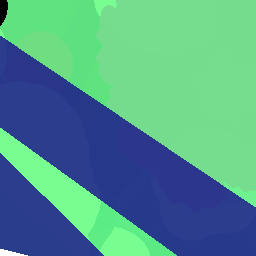
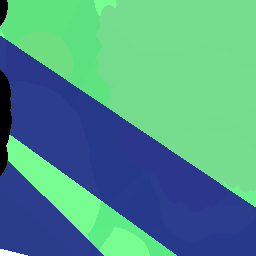
Fixed more stuff with the line fragment shader

Changed region(s): [[0.0, 0.2812, 0.0625, 0.6875]]

diff --git a/Code/drawing_functions.py b/Code/drawing_functions.py
@@ -458,8 +458,6 @@ class RenderObjects():
             if (y1 < y2):  # ↓
                 y2 += pixel_size
                 ltwh = [x1 - (((thickness - 1) // 2) * pixel_size), min(y1, y2) - (((thickness - 1) // 2) * pixel_size), (thickness * pixel_size), abs(y2 - y1) + ((thickness - 1) * pixel_size)]
-            # self.basic_rect_ltwh_image_with_color(Screen, gl_context, 'black_pixel', ltwh, rgba)
-            # return
         else:
             # octant 1 or 2
             if (y1 > y2) and (x1 < x2):
@@ -2137,30 +2135,41 @@ class DrawLine():
                     f_color.rgba = line_color;
                 }
 
+                inverse_slope = (delta_x - 1) / (delta_y - 1);
                 if (thickness == 1.0) {
-                    inverse_slope = (delta_x - 1) / (delta_y - 1);
                     float calculated_x = (inverse_slope * (editor_pixel_y - 0.5)) + 0.5;
-                    if (mod(calculated_x, 1.0) > 0.999) {
-                        calculated_x = ceil(calculated_x);
-                    }
-                    if (mod(calculated_x, 1.0) < 0.001) {
-                        calculated_x = floor(calculated_x);
-                    }
+                    calculated_x = round_close(calculated_x);
                     if ((calculated_x < editor_pixel_x + 0.5) && (calculated_x >= editor_pixel_x - 0.5)) {
                         f_color.rgba = line_color;
                     }
                 }
 
+                // float left_top_edge_offset = (mod(thickness, 2.0) == 0.0) ? -((thickness / 2) - 1) : -floor(thickness / 2);
+                // float bottom_line_x = x1 + left_top_edge_offset + outer_line_x1;
+                // float bottom_line_y = y1 + left_top_edge_offset + outer_line_y1;
+                // float bottom_line_intercept = (inverse_slope * -bottom_line_y) + bottom_line_x;
+                // bool above_bottom_line = editor_pixel_x + 0.5 > (inverse_slope * editor_pixel_y) + bottom_line_intercept;
+
+                // float top_line_x = x1 + left_top_edge_offset + outer_line_x2;
+                // float top_line_y = y1 + left_top_edge_offset + outer_line_y2;
+                // float top_line_intercept = (inverse_slope * -top_line_y) + top_line_x;
+                // bool below_top_line = editor_pixel_x - 0.5 <= (inverse_slope * editor_pixel_y) + top_line_intercept;
+
                 float left_top_edge_offset = (mod(thickness, 2.0) == 0.0) ? -((thickness / 2) - 1) : -floor(thickness / 2);
                 float bottom_line_x = x1 + left_top_edge_offset + outer_line_x1;
                 float bottom_line_y = y1 + left_top_edge_offset + outer_line_y1;
-                float bottom_line_intercept = (inverse_slope * -bottom_line_y) + bottom_line_x;
-                bool above_bottom_line = editor_pixel_x + 0.5 > (inverse_slope * editor_pixel_y) + bottom_line_intercept;
+                float calculated_bottom_line = (inverse_slope * (editor_pixel_y - bottom_line_y - 0.5)) + bottom_line_x + 0.5;
+                calculated_bottom_line = round_close(calculated_bottom_line);
+                bool above_bottom_line = calculated_bottom_line < editor_pixel_x + 0.5;
 
                 float top_line_x = x1 + left_top_edge_offset + outer_line_x2;
                 float top_line_y = y1 + left_top_edge_offset + outer_line_y2;
-                float top_line_intercept = (inverse_slope * -top_line_y) + top_line_x;
-                bool below_top_line = editor_pixel_x - 0.5 <= (inverse_slope * editor_pixel_y) + top_line_intercept;
+                float calculated_top_line = (inverse_slope * (editor_pixel_y - top_line_y - 0.5)) + top_line_x + 0.5;
+                calculated_top_line = round_close(calculated_top_line);
+                bool below_top_line = calculated_top_line >= editor_pixel_x - 0.5;
+
+
+
 
                 float perpendicular_slope = (top_line_x - bottom_line_x) / (top_line_y - bottom_line_y);
                 float perpendicular_intercept_stamp1 = (perpendicular_slope * -bottom_line_y + 1) + bottom_line_x;

diff --git a/Code/Editor/editor_utilities.py b/Code/Editor/editor_utilities.py
@@ -1773,6 +1773,34 @@ class LineTool(EditorTool):
         if int(brush_thickness) == self._brush_thickness:
             return False
         return True
+    
+    def get_outer_pixels(self, drawing_angle, x1, y1, x2, y2):
+        if ((x1 == x2) or (y1 == y2)):
+            return (None, None), (None, None)
+        above_line_xy = [x1, y1, 0]
+        below_line_xy = [x1, y1, 0]
+        center_x, center_y = self.brush_thickness / 2, self.brush_thickness / 2
+        slope = ((y2 - y1) / (x2 - x1))
+        intercept = (slope * -center_x) + center_y
+        perpendicular_slope = -(1 / slope)
+        for edge_pixel in self.circle_for_line_drawing:
+            [column_index, row_index, radial_angle, [lower_angle, upper_angle]] = edge_pixel
+            if (not angle_in_range(lower_angle, drawing_angle, upper_angle)) or (self.brush_thickness < 4) or (self.brush_style == LineTool.SQUARE_BRUSH):
+                pixel_x = column_index + 0.5
+                pixel_y = row_index + 0.5
+                perpendicular_intercept = (perpendicular_slope * -pixel_x) + pixel_y
+                intersection_x = (perpendicular_intercept - intercept) / (slope - perpendicular_slope)
+                intersection_y = (slope * intersection_x) + intercept
+                distance_from_line = math.sqrt(((intersection_x - pixel_x) ** 2) + ((intersection_y - pixel_y) ** 2))
+                # above line
+                if pixel_y > (slope * pixel_x) + intercept:
+                    if distance_from_line > above_line_xy[2]:
+                        above_line_xy = [column_index, row_index, distance_from_line]
+                # below line
+                else:
+                    if distance_from_line > below_line_xy[2]:
+                        below_line_xy = [column_index, row_index, distance_from_line]
+        return above_line_xy[0:2], below_line_xy[0:2]
 
 
 class CurvyLineTool(EditorTool):
@@ -2379,6 +2407,16 @@ class EditorMap():
                         draw_angle = math.degrees(math.atan2(self.current_tool.start_left_top_xy[1] - topest_brush_pixel, leftest_brush_pixel - self.current_tool.start_left_top_xy[0])) % 360
                         map_edit = self.map_edits[-1].change_dict
                         max_tile_x, max_tile_y = self.tile_array_shape[0] - 1, self.tile_array_shape[1] - 1
+                        # # get points used to draw lines in the fragment shader to make the drawn points match
+                        # x2 = int(pixel_x + (((self.current_tool.brush_thickness - 1) // 2) * self.pixel_scale))
+                        # y2 = int(pixel_y + (((self.current_tool.brush_thickness - 1) // 2) * self.pixel_scale))
+                        # x1 = int(x2 + ((self.current_tool.start_xy[0] - pos_x) * self.pixel_scale))
+                        # y1 = int(y2 + ((self.current_tool.start_xy[1] - pos_y) * self.pixel_scale))
+                        # (stamp1_above_line_x, stamp1_above_line_y), (stamp1_below_line_x, stamp1_below_line_y) = self.current_tool.get_outer_pixels(draw_angle, x1, y1, x2, y2)
+                        # difference_x = leftest_brush_pixel-self.current_tool.start_left_top_xy[0]
+                        # difference_y = topest_brush_pixel-self.current_tool.start_left_top_xy[1]
+                        # (stamp2_above_line_x, stamp2_above_line_y), (stamp2_below_line_x, stamp2_below_line_y) = (stamp1_above_line_x+difference_x, stamp1_above_line_y+difference_y), (stamp1_below_line_x+difference_x, stamp1_below_line_y+difference_y)
+                        # stamp1_slope = (stamp1_above_line_y - stamp1_below_line_y) / (stamp1_above_line_x - stamp1_below_line_x)
                         for brush_offset_x, column in enumerate(self.current_tool.circle):
                             for brush_offset_y, draw in enumerate(column):
                                 if draw == LineTool.NOT_DRAW_PIXEL:
